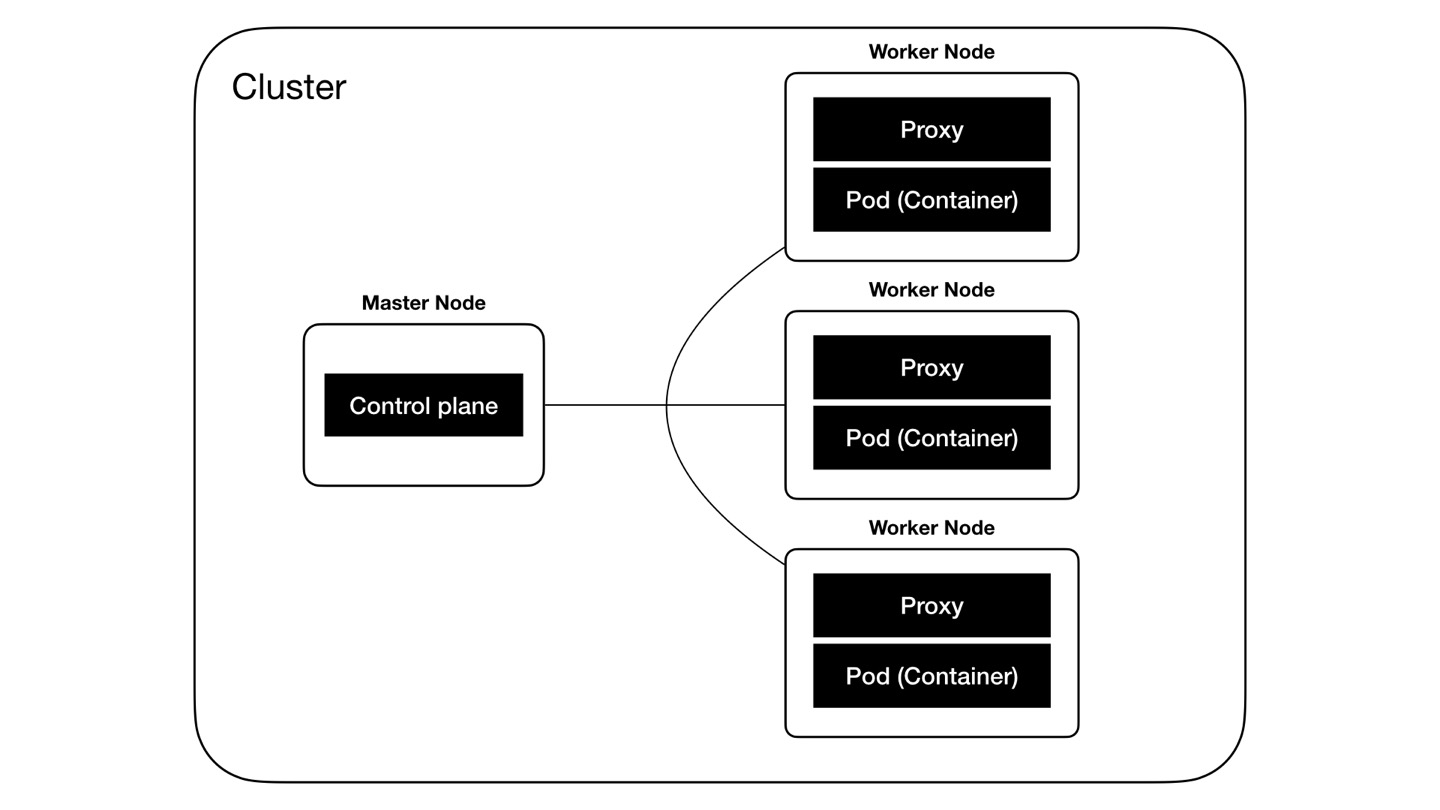
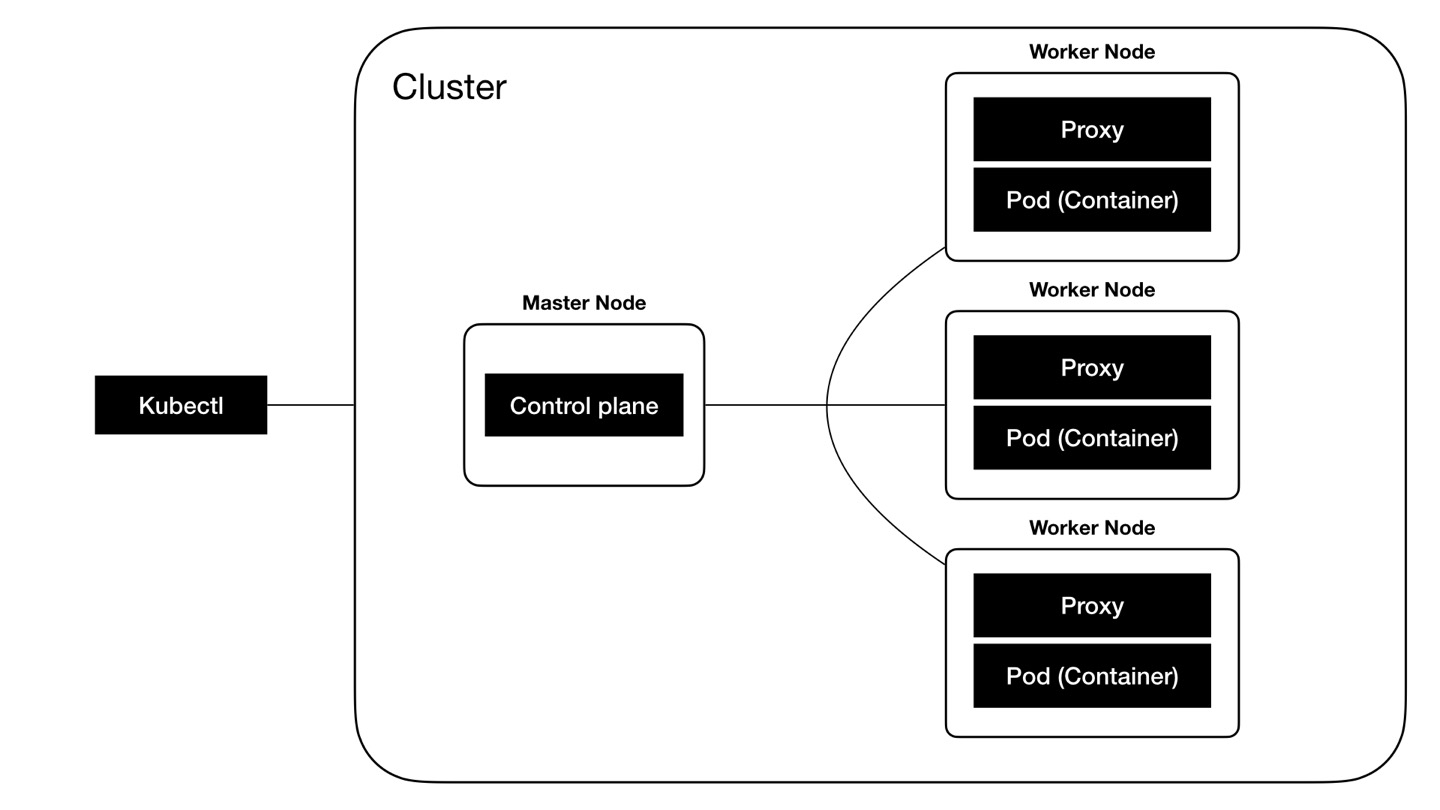
.

diff --git a/_posts/2024-08-15-k8s1.md b/_posts/2024-08-15-k8s1.md
@@ -83,6 +83,14 @@ Proxy 는 Pod 가 인터넷에 연결할 수 있는지의 여부와,
 이 모든 것을 아우르는 것을 클러스터라고 한다.
 이 최종 상태, 즉, 이 클러스터는 클라우드 프로바이더에 복제되어 사용된다.
 
+
+## kubectl
+
+클러스터에 명령을 보내는 도구이다.<br>
+kubectl 도구를 사용하면 개발자 또는 관리자가 마스터 노드에 명령을 보낼 수 있다.
+
+예를 들어, 개발자가 주어진 컨테이너의 더 많은 포드를 생성하라는 명령을 보내면, <br>마스터 노드와 워커 노드가 명령에 따라 상호작용하며 추가 포드를 생성한다. 
+
 # 구체적인 Worker Node 의 구조
 
 ![](/assets/images/k8s/k8s2.jpg)
